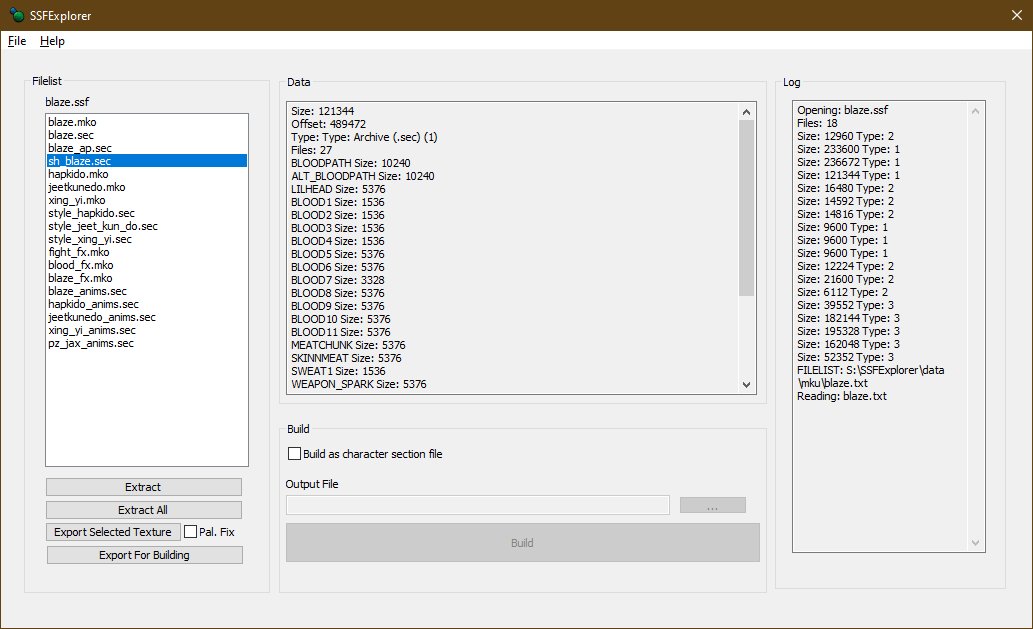
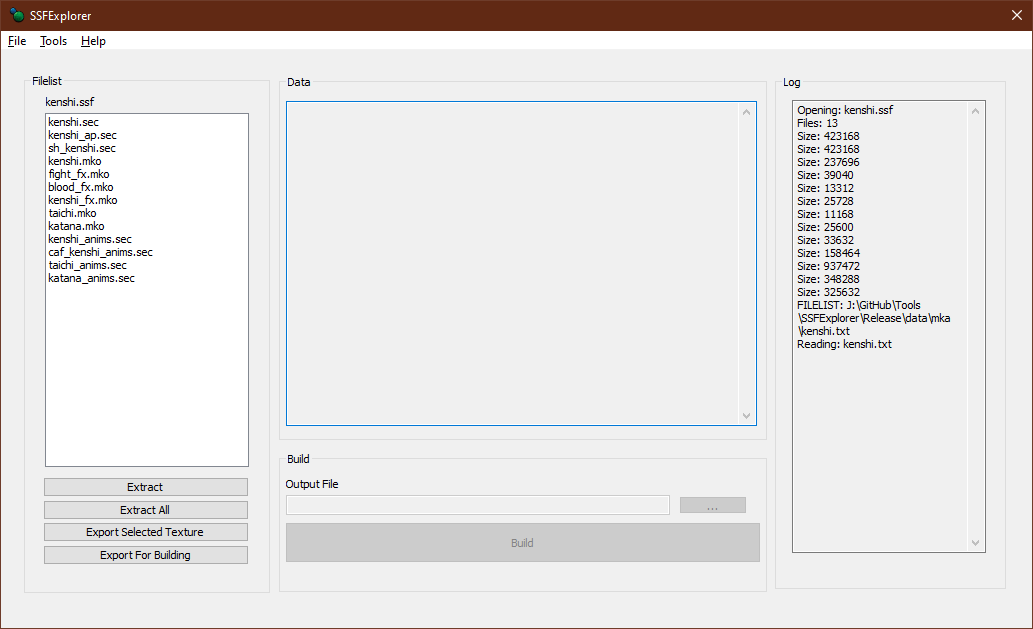
update ssf explorer page

diff --git a/_posts/tools/2021-04-25-ssfexplorer.md b/_posts/tools/2021-04-25-ssfexplorer.md
@@ -46,11 +46,9 @@ To create an archive, you will need original file metadata -
 this can be saved when you open any archive and select "Export For Building" option.
 
 Open the ini file using File->Open INI.
-This will load the configuration file and populate objects
-in editing group.
+This will load the configuration file and populate objects in editing group.
 
-If you want to create character archives (scorpion.sec for example), check "Build as character section file".
-This option should be checked if FACEDAM file is present. This advice doesn't apply to MKDA.
+Set path and build.
 
 
 ## Download
